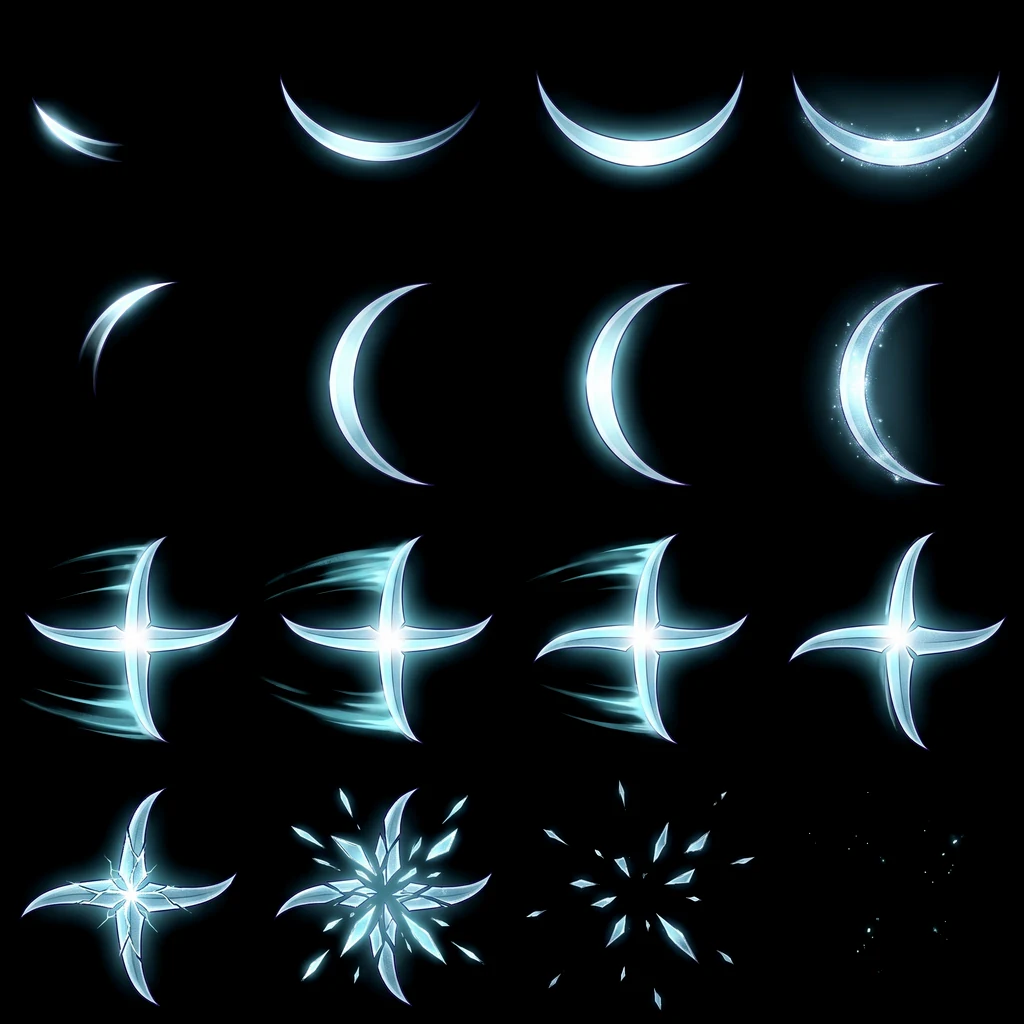
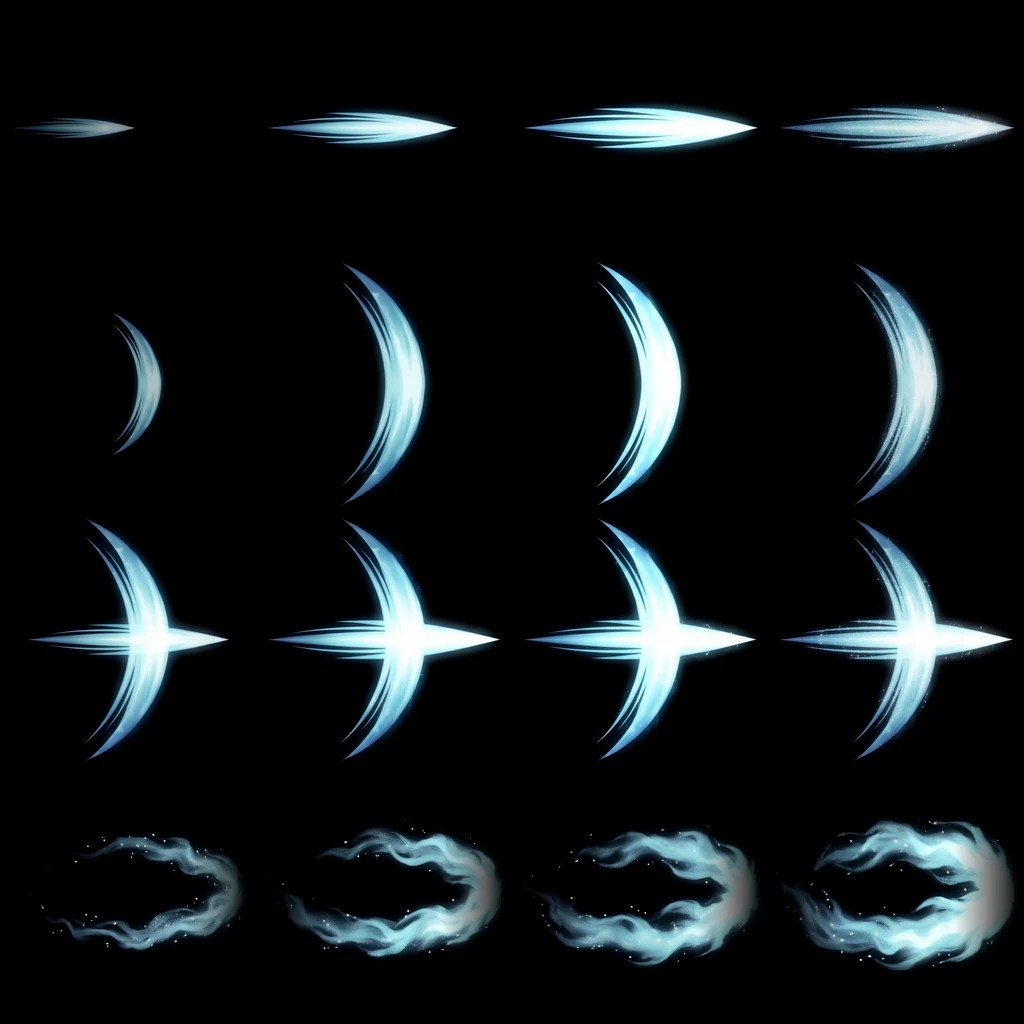
v0.8.173 寒川十字換層疊刀光特效＋獨立尾霧
Claude-Session: https://claude.ai/code/session_019t36Gr7PPAoBXKfZgSpNoY

diff --git a/index.html b/index.html
@@ -2102,14 +2102,14 @@
       "use strict";
 
       /* v0.7.8 圖片快取：assets/ 圖片網址一律加 ?v=版本，更新美術後不會讀到手機瀏覽器的舊快取（每次改圖就遞增 ASSET_VER） */
-      const ASSET_VER = "f7321d3a"; /* v0.8.135 由 tools/build.py 依 assets/ 內容雜湊自動填入：只有圖片／音檔真的變了網址才換（原本每發一版全部換網址，手機要重載約 10 MB）。不必再手動遞增 */
+      const ASSET_VER = "a1b3c0bd"; /* v0.8.135 由 tools/build.py 依 assets/ 內容雜湊自動填入：只有圖片／音檔真的變了網址才換（原本每發一版全部換網址，手機要重載約 10 MB）。不必再手動遞增 */
       /* v0.8.156 共用圖片載入器 IMGQ：所有 assets/ 圖片（不論哪裡 new Image）都經過這裡。
        * - 先用隱藏的代理圖下載，成功才把網址交給真正的圖（此時從快取秒載、觸發原本的 onload）；
        *   下載中的圖沒有 src，畫出來不會丟錯（失敗狀態的圖 drawImage 會丟錯）。
        * - 同時最多 IMGQ_MAX 個下載；單次 20 秒沒回應視為失敗；失敗重試 3 次（0.6／1.2／1.8 秒後，網址加 &r=）；
        *   整輪都失敗就 6 秒後再來一輪；兩輪都失敗才對原圖發 error 事件（圖保持「沒有 src」，畫了也安全）。
        * - 同一網址只下載一次。IMGQ.pending() 給進場閘門用（v0.8.156 進戰場前等圖載完）。 */
-      const ASSET_IMGS = new Set("bg/arena1,bg/arena1_fg,bg/arena1_ground,bg/arena1_sky,bg/arena2,bg/arena2_fg,bg/arena2_ground,bg/arena3,bg/arena3_fg,bg/arena3_ground,bg/arena4,bg/arena4_fg,bg/arena4_ground,bg/arena5,bg/arena5_fg,bg/arena5_ground,bg/camp,bg/hub_fire_base,bg/hub_gate,bg/hub_gate_front,bg/hub_shimei_1,bg/hub_shimei_2,bg/hub_shimei_3,bg/hub_shimei_4,bg/intro1,bg/intro2,bg/intro3,bg/intro5,boss1/01_idle1,boss1/02_idle2,boss1/03_walk1,boss1/04_walk2,boss1/05_walk3,boss1/06_walk4,boss1/07_windup,boss1/08_windup_thrust,boss1/09_slash,boss1/10_slash_rec,boss1/11_thrust,boss1/12_thrust_rec,boss1/13_sweep,boss1/14_cast,boss1/15_hurt,boss1/16_stagger,boss1/17_kneel,boss1/18_fall,boss1/19_lie,boss1/20_jump,boss1/21_fall,boss1/22_land,boss1/23_rise,boss1/24_chop_wind,boss1/25_chop_hit,boss1/26_chop_rec,boss1/27_thr_wind,boss1/28_thr_hit,boss1/29_thr_rec,boss1/30_swp_wind,boss1/31_swp_hit,boss1/32_swp_rec,boss1/33_leap_crouch,boss1/34_leap_air,boss1/35_leap_land,boss1/36_tq_wind,boss1/37_tq_hit,boss1/38_tq_rec,boss1/39_cb_wind,boss1/40_cb_h1,boss1/41_cb_h2,boss1/42_cb_rec,boss1/43_dl_hold,boss1/44_dl_hit,boss1/45_tw_wind,boss1/46_tw_rel,boss1/47_tw_catch,boss1/48_sp_wind,boss1/49_sp_hit,boss1/50_sp_rec,boss1/51_ch_wind,boss1/52_ch_run,boss1/53_ch_stop,boss1/54_sh_vanish,boss1/55_sh_strike,boss1/61_u_raise,boss1/62_u_pause,boss1/63_u_stab,boss1/64_u_hold,boss1/65_u_cross,boss1/66_u_roar,boss1/67_u_rest,boss1/68_u_pull,boss1/name,boss1/walk_01,boss1/walk_02,boss1/walk_03,boss1/walk_04,boss1/walk_05,boss1/walk_06,boss1/walk_07,boss1/walk_08,boss1/walk_09,boss1/walk_10,boss1/walk_11,boss1/walk_12,boss2/01_idle1,boss2/02_idle2,boss2/03_walk1,boss2/04_walk2,boss2/05_walk3,boss2/06_walk4,boss2/07_windup,boss2/08_windup_thrust,boss2/09_slash,boss2/10_slash_rec,boss2/11_thrust,boss2/12_thrust_rec,boss2/13_sweep,boss2/14_cast,boss2/15_hurt,boss2/16_stagger,boss2/17_kneel,boss2/18_fall,boss2/19_lie,boss2/20_fan_wind,boss2/21_fan_hit,boss2/22_fan_rec,boss2/23_thr_wind,boss2/24_thr_hit,boss2/25_thr_rec,boss2/26_swp_wind,boss2/27_swp_hit,boss2/28_swp_rec,boss2/29_cast_wind,boss2/30_cast_hit,boss2/31_cast_rec,boss2/32_tp_wind,boss2/33_tp_hit,boss2/34_tp_rec,boss2/35_fs_wind,boss2/36_fs_1,boss2/37_fs_2,boss2/38_fs_3,boss2/39_fs_rec,boss2/40_sky_cast,boss2/41_zone_wind,boss2/42_zone_hit,boss2/43_zone_rec,boss2/44_grab_tell,boss2/45_grab_hit,boss2/46_grab_rec,boss2/47_mir_wind,boss2/48_mir_spin,boss2/49_mir_rec,boss2/50_tc_back,boss2/51_tc_low,boss2/52_tc_rec,boss2/61_u_rise,boss2/62_u_summon,boss2/63_u_rain,boss2/64_u_gather,boss2/65_u_launch,boss2/66_u_struck,boss2/67_u_rest,boss2/68_u_recover,boss2/name,boss2/walk_01,boss2/walk_02,boss2/walk_03,boss2/walk_04,boss2/walk_05,boss2/walk_06,boss2/walk_07,boss2/walk_08,boss2/walk_09,boss2/walk_10,boss2/walk_11,boss2/walk_12,boss3/01_idle1,boss3/02_idle2,boss3/03_walk1,boss3/04_walk2,boss3/05_walk3,boss3/06_walk4,boss3/07_windup,boss3/08_windup_thrust,boss3/09_slash,boss3/10_slash_rec,boss3/11_thrust,boss3/12_thrust_rec,boss3/13_sweep,boss3/14_cast,boss3/15_hurt,boss3/16_stagger,boss3/17_kneel,boss3/18_fall,boss3/19_lie,boss3/20_hs_wind,boss3/21_hs_hit,boss3/22_hs_rec,boss3/23_x_wind,boss3/24_x_hold,boss3/25_x_hit,boss3/26_spin_wind,boss3/27_spin_hit,boss3/28_spin_rec,boss3/29_dash_wind,boss3/30_dash_hit,boss3/31_dash_rec,boss3/32_low_wind,boss3/33_low_hit,boss3/34_low_rec,boss3/35_draw_a,boss3/61_ua_guard,boss3/62_ua_sweep,boss3/63_ua_raise,boss3/64_ua_chop,boss3/65_ua_push,boss3/66_ua_pant,boss3/67_ua_recoil,boss3/68_ua_recover,boss3/name,boss3/walk_01,boss3/walk_02,boss3/walk_03,boss3/walk_04,boss3/walk_05,boss3/walk_06,boss3/walk_07,boss3/walk_08,boss3/walk_09,boss3/walk_10,boss3/walk_11,boss3/walk_12,boss3b/01_idle1,boss3b/02_idle2,boss3b/03_walk1,boss3b/04_walk2,boss3b/05_walk3,boss3b/06_walk4,boss3b/07_windup,boss3b/08_windup_thrust,boss3b/09_slash,boss3b/10_slash_rec,boss3b/11_thrust,boss3b/12_thrust_rec,boss3b/13_sweep,boss3b/14_cast,boss3b/15_hurt,boss3b/16_stagger,boss3b/17_kneel,boss3b/18_fall,boss3b/19_lie,boss3b/20_slam_wind,boss3b/21_slam_hit,boss3b/22_slam_rec,boss3b/23_plunge_jump,boss3b/24_plunge_hit,boss3b/25_plunge_rec,boss3b/26_charge_wind,boss3b/27_charge_hit,boss3b/28_charge_rec,boss3b/29_sweep_wind,boss3b/30_sweep_hit,boss3b/31_sweep_rec,boss3b/35_draw_a,boss3b/36_draw_b,boss3b/37_draw_c,boss3b/71_ub_hold,boss3b/72_ub_spinf,boss3b/73_ub_spinb,boss3b/74_ub_pause,boss3b/75_ub_throw,boss3b/76_ub_perch,boss3b/77_ub_strain,boss3b/78_ub_back,boss3b/obj_fly,boss3b/obj_lean,boss3b/obj_stuck,boss3b/walk_01,boss3b/walk_02,boss3b/walk_03,boss3b/walk_04,boss3b/walk_05,boss3b/walk_06,boss3b/walk_07,boss3b/walk_08,boss3b/walk_09,boss3b/walk_10,boss3b/walk_11,boss3b/walk_12,boss4/fs11,boss4/fs12,boss4/fs14,boss4/fs21,boss4/fs22,boss4/fs24,boss4/fs31,boss4/fs32,boss4/fs34,boss4/fs41,boss4/fs42,boss4/fs44,boss4/h01,boss4/h02,boss4/h03,boss4/h04,boss4/h05,boss4/h06,boss4/h07,boss4/h08,boss4/h09,boss4/h10,boss4/h11,boss4/h12,boss4/ls1,boss4/ls2,boss4/ls3,boss4/ls4,boss4/name,boss4/rs1,boss4/rs2,boss4/rs3,boss4/rs4,boss4/sw1,boss4/sw2,boss4/sw3,boss4s/01_idle1,boss4s/02_idle2,boss4s/03_walk1,boss4s/04_walk2,boss4s/05_walk3,boss4s/06_walk4,boss4s/07_windup,boss4s/08_windup_thrust,boss4s/09_slash,boss4s/10_slash_rec,boss4s/11_thrust,boss4s/12_thrust_rec,boss4s/13_sweep,boss4s/14_cast,boss4s/15_hurt,boss4s/16_stagger,boss4s/17_kneel,boss4s/18_fall,boss4s/19_lie,boss4s/20_spin_wind,boss4s/21_spin_hit,boss4s/22_sweep_wind,boss4s/23_fly_launch,boss4s/24_rain_wind,boss4s/25_spin_rec,boss4s/51_desc_a,boss4s/52_desc_b,boss4s/53_desc_c,boss4s/54_desc_d,boss5/01_idle1,boss5/02_idle2,boss5/03_walk1,boss5/04_walk2,boss5/05_walk3,boss5/06_walk4,boss5/07_windup,boss5/08_windup_thrust,boss5/09_slash,boss5/10_slash_rec,boss5/11_thrust,boss5/12_thrust_rec,boss5/13_sweep,boss5/14_cast,boss5/15_hurt,boss5/16_stagger,boss5/20_bite_crouch,boss5/21_bite_lunge,boss5/22_pounce_coil,boss5/23_pounce_fly,boss5/24_pounce_dive,boss5/25_pounce_land,boss5/26_rush,boss5/27_tail_wind,boss5/28_tail_spin,boss5/29_claw,boss5/40_sb_wind,boss5/41_sb_open,boss5/42_sb_snap,boss5/43_sb_rec,boss5/44_sc_rear,boss5/45_sc_a,boss5/46_sc_b,boss5/47_sc_rec,boss5/48_sp_coil,boss5/49_sp_rise,boss5/50_sp_dive,boss5/51_sp_land,boss5/52_sr_tell,boss5/53_sr_dart,boss5/54_sr_skid,boss5/55_ss_hit,boss5/56_st_wind,boss5/57_st_spin,boss5/58_st_rec,boss5/59_s_howl,boss5/name,boss5b/01_idle1,boss5b/02_idle2,boss5b/03_walk1,boss5b/04_walk2,boss5b/05_walk3,boss5b/06_walk4,boss5b/07_windup,boss5b/08_windup_thrust,boss5b/09_slash,boss5b/10_slash_rec,boss5b/11_thrust,boss5b/12_thrust_rec,boss5b/13_sweep,boss5b/14_cast,boss5b/15_hurt,boss5b/16_stagger,boss5b/17_kneel,boss5b/18_fall,boss5b/19_lie,boss5b/22_swipe_rear,boss5b/23_swipe_mid,boss5b/24_slam_up,boss5b/25_slam_mid,boss5b/26_leap_crouch,boss5b/27_leap_fly,boss5b/28_leap_dive,boss5b/29_bite_wind,boss5b/30_bite_snap,boss5b/31_rush,boss5b/32_tail_wind,boss5b/33_tail_spin,boss5b/40_bw_wind,boss5b/41_bw_mid,boss5b/42_bw_follow,boss5b/43_bw_rec,boss5b/44_bs_up,boss5b/45_bs_down,boss5b/46_bs_up2,boss5b/47_bs_rec,boss5b/48_bl_crouch,boss5b/49_bl_fly,boss5b/50_bl_dive,boss5b/51_bl_land,boss5b/52_bb_tell,boss5b/53_bb_snap,boss5b/54_bc_wind,boss5b/55_bc_run,boss5b/56_b_howl,boss5b/57_b_summon,boss5b/58_bt_wind,boss5b/59_bt_spin,boss5b/60_br_crouch,boss5b/61_br_coil,boss5b/62_br_fire,boss5b/63_br_rec,boss5b/64_br_deep,boss5b/65_br_g1,boss5b/66_br_g2,boss5b/67_br_coil2,boss5b/68_br_lunge,boss5b/69_br_fire2,boss5b/70_br_fire3,fx/air,fx/boss1,fx/boss1fx2,fx/boss1ult,fx/boss1ult2,fx/boss2,fx/boss2bind,fx/boss2fx,fx/boss2intro,fx/boss2sw,fx/boss2ult,fx/boss2ult2,fx/boss3bfx,fx/boss3bult,fx/boss3fx,fx/boss3intro,fx/boss3ult,fx/boss4fx,fx/boss4fx2,fx/boss4fx3,fx/boss4intro,fx/boss4warn,fx/boss5beam,fx/boss5charge,fx/boss5flame,fx/boss5intro,fx/boss5morph,fx/campfire,fx/cue,fx/dir1,fx/dir2,fx/dir3,fx/dir4,fx/exec,fx/exec2,fx/exec_t1,fx/exec_t2,fx/flame,fx/heal_fx,fx/ink,fx/land,fx/mark,fx/peril_aura,fx/scene,fx/slash,fx/spark,fx/ult,fx/wolf,fx/wolf2,fx/xtz,fx/xtz_shield,fx/xtz_star,mc/01_idle1,mc/02_idle2,mc/03_run1,mc/04_run2,mc/05_run3,mc/06_run4,mc/07_jump,mc/08_fall,mc/09_slash1,mc/10_slash2,mc/11_thrust,mc/12_charge,mc/13_parry,mc/14_dash,mc/15_drink,mc/16_hurt,mc/17_slide,mc/18_plant,mc/19_rise,mc/20_s1a,mc/21_s1b,mc/22_s1c,mc/23_s2a,mc/24_s2b,mc/25_s2c,mc/26_t_a,mc/27_t_b,mc/28_t_c,mc/29_parry_a,mc/30_parry_b,mc/31_parry_c,mc/32_jump_a,mc/33_dash_a,mc/34_dash_b,mc/35_dash_c,mc/36_hurt_a,mc/37_hurt_b,mc/38_hv_a,mc/39_hv_b,mc/40_hv_c,mc/41_point_a,mc/42_point_b,mc/43_point_c,mc/idle_01,mc/idle_02,mc/idle_03,mc/idle_04,mc/idle_05,mc/idle_06,mc/idle_07,mc/idle_08,mc/idle_09,mc/idle_10,mc/idle_11,mc/idle_12,mc/idle_13,mc/idle_14,mc/idle_15,mc/idle_16,mc/idle_17,mc/idle_18,mc/idle_19,mc/idle_20,mc/idle_21,mc/idle_22,mc/idle_23,mc/idle_24,mc/run_01,mc/run_02,mc/run_03,mc/run_04,mc/run_05,mc/run_06,mc/run_07,mc/run_08,mc/run_09,mc/run_10,portrait/boss1,portrait/boss1_alt,portrait/boss2,portrait/boss2_alt,portrait/boss3,portrait/boss3_alt,portrait/mochen,portrait/mochen_alt,portrait/shidi,portrait/shidi_alt,ui/clash_bar,ui/clash_medal".split(",")); /* v0.8.156 build.py 填入 assets 內全部 webp（"資料夾/檔名"） */
+      const ASSET_IMGS = new Set("bg/arena1,bg/arena1_fg,bg/arena1_ground,bg/arena1_sky,bg/arena2,bg/arena2_fg,bg/arena2_ground,bg/arena3,bg/arena3_fg,bg/arena3_ground,bg/arena4,bg/arena4_fg,bg/arena4_ground,bg/arena5,bg/arena5_fg,bg/arena5_ground,bg/camp,bg/hub_fire_base,bg/hub_gate,bg/hub_gate_front,bg/hub_shimei_1,bg/hub_shimei_2,bg/hub_shimei_3,bg/hub_shimei_4,bg/intro1,bg/intro2,bg/intro3,bg/intro5,boss1/01_idle1,boss1/02_idle2,boss1/03_walk1,boss1/04_walk2,boss1/05_walk3,boss1/06_walk4,boss1/07_windup,boss1/08_windup_thrust,boss1/09_slash,boss1/10_slash_rec,boss1/11_thrust,boss1/12_thrust_rec,boss1/13_sweep,boss1/14_cast,boss1/15_hurt,boss1/16_stagger,boss1/17_kneel,boss1/18_fall,boss1/19_lie,boss1/20_jump,boss1/21_fall,boss1/22_land,boss1/23_rise,boss1/24_chop_wind,boss1/25_chop_hit,boss1/26_chop_rec,boss1/27_thr_wind,boss1/28_thr_hit,boss1/29_thr_rec,boss1/30_swp_wind,boss1/31_swp_hit,boss1/32_swp_rec,boss1/33_leap_crouch,boss1/34_leap_air,boss1/35_leap_land,boss1/36_tq_wind,boss1/37_tq_hit,boss1/38_tq_rec,boss1/39_cb_wind,boss1/40_cb_h1,boss1/41_cb_h2,boss1/42_cb_rec,boss1/43_dl_hold,boss1/44_dl_hit,boss1/45_tw_wind,boss1/46_tw_rel,boss1/47_tw_catch,boss1/48_sp_wind,boss1/49_sp_hit,boss1/50_sp_rec,boss1/51_ch_wind,boss1/52_ch_run,boss1/53_ch_stop,boss1/54_sh_vanish,boss1/55_sh_strike,boss1/61_u_raise,boss1/62_u_pause,boss1/63_u_stab,boss1/64_u_hold,boss1/65_u_cross,boss1/66_u_roar,boss1/67_u_rest,boss1/68_u_pull,boss1/name,boss1/walk_01,boss1/walk_02,boss1/walk_03,boss1/walk_04,boss1/walk_05,boss1/walk_06,boss1/walk_07,boss1/walk_08,boss1/walk_09,boss1/walk_10,boss1/walk_11,boss1/walk_12,boss2/01_idle1,boss2/02_idle2,boss2/03_walk1,boss2/04_walk2,boss2/05_walk3,boss2/06_walk4,boss2/07_windup,boss2/08_windup_thrust,boss2/09_slash,boss2/10_slash_rec,boss2/11_thrust,boss2/12_thrust_rec,boss2/13_sweep,boss2/14_cast,boss2/15_hurt,boss2/16_stagger,boss2/17_kneel,boss2/18_fall,boss2/19_lie,boss2/20_fan_wind,boss2/21_fan_hit,boss2/22_fan_rec,boss2/23_thr_wind,boss2/24_thr_hit,boss2/25_thr_rec,boss2/26_swp_wind,boss2/27_swp_hit,boss2/28_swp_rec,boss2/29_cast_wind,boss2/30_cast_hit,boss2/31_cast_rec,boss2/32_tp_wind,boss2/33_tp_hit,boss2/34_tp_rec,boss2/35_fs_wind,boss2/36_fs_1,boss2/37_fs_2,boss2/38_fs_3,boss2/39_fs_rec,boss2/40_sky_cast,boss2/41_zone_wind,boss2/42_zone_hit,boss2/43_zone_rec,boss2/44_grab_tell,boss2/45_grab_hit,boss2/46_grab_rec,boss2/47_mir_wind,boss2/48_mir_spin,boss2/49_mir_rec,boss2/50_tc_back,boss2/51_tc_low,boss2/52_tc_rec,boss2/61_u_rise,boss2/62_u_summon,boss2/63_u_rain,boss2/64_u_gather,boss2/65_u_launch,boss2/66_u_struck,boss2/67_u_rest,boss2/68_u_recover,boss2/name,boss2/walk_01,boss2/walk_02,boss2/walk_03,boss2/walk_04,boss2/walk_05,boss2/walk_06,boss2/walk_07,boss2/walk_08,boss2/walk_09,boss2/walk_10,boss2/walk_11,boss2/walk_12,boss3/01_idle1,boss3/02_idle2,boss3/03_walk1,boss3/04_walk2,boss3/05_walk3,boss3/06_walk4,boss3/07_windup,boss3/08_windup_thrust,boss3/09_slash,boss3/10_slash_rec,boss3/11_thrust,boss3/12_thrust_rec,boss3/13_sweep,boss3/14_cast,boss3/15_hurt,boss3/16_stagger,boss3/17_kneel,boss3/18_fall,boss3/19_lie,boss3/20_hs_wind,boss3/21_hs_hit,boss3/22_hs_rec,boss3/23_x_wind,boss3/24_x_hold,boss3/25_x_hit,boss3/26_spin_wind,boss3/27_spin_hit,boss3/28_spin_rec,boss3/29_dash_wind,boss3/30_dash_hit,boss3/31_dash_rec,boss3/32_low_wind,boss3/33_low_hit,boss3/34_low_rec,boss3/35_draw_a,boss3/61_ua_guard,boss3/62_ua_sweep,boss3/63_ua_raise,boss3/64_ua_chop,boss3/65_ua_push,boss3/66_ua_pant,boss3/67_ua_recoil,boss3/68_ua_recover,boss3/name,boss3/walk_01,boss3/walk_02,boss3/walk_03,boss3/walk_04,boss3/walk_05,boss3/walk_06,boss3/walk_07,boss3/walk_08,boss3/walk_09,boss3/walk_10,boss3/walk_11,boss3/walk_12,boss3b/01_idle1,boss3b/02_idle2,boss3b/03_walk1,boss3b/04_walk2,boss3b/05_walk3,boss3b/06_walk4,boss3b/07_windup,boss3b/08_windup_thrust,boss3b/09_slash,boss3b/10_slash_rec,boss3b/11_thrust,boss3b/12_thrust_rec,boss3b/13_sweep,boss3b/14_cast,boss3b/15_hurt,boss3b/16_stagger,boss3b/17_kneel,boss3b/18_fall,boss3b/19_lie,boss3b/20_slam_wind,boss3b/21_slam_hit,boss3b/22_slam_rec,boss3b/23_plunge_jump,boss3b/24_plunge_hit,boss3b/25_plunge_rec,boss3b/26_charge_wind,boss3b/27_charge_hit,boss3b/28_charge_rec,boss3b/29_sweep_wind,boss3b/30_sweep_hit,boss3b/31_sweep_rec,boss3b/35_draw_a,boss3b/36_draw_b,boss3b/37_draw_c,boss3b/71_ub_hold,boss3b/72_ub_spinf,boss3b/73_ub_spinb,boss3b/74_ub_pause,boss3b/75_ub_throw,boss3b/76_ub_perch,boss3b/77_ub_strain,boss3b/78_ub_back,boss3b/obj_fly,boss3b/obj_lean,boss3b/obj_stuck,boss3b/walk_01,boss3b/walk_02,boss3b/walk_03,boss3b/walk_04,boss3b/walk_05,boss3b/walk_06,boss3b/walk_07,boss3b/walk_08,boss3b/walk_09,boss3b/walk_10,boss3b/walk_11,boss3b/walk_12,boss4/fs11,boss4/fs12,boss4/fs14,boss4/fs21,boss4/fs22,boss4/fs24,boss4/fs31,boss4/fs32,boss4/fs34,boss4/fs41,boss4/fs42,boss4/fs44,boss4/h01,boss4/h02,boss4/h03,boss4/h04,boss4/h05,boss4/h06,boss4/h07,boss4/h08,boss4/h09,boss4/h10,boss4/h11,boss4/h12,boss4/ls1,boss4/ls2,boss4/ls3,boss4/ls4,boss4/name,boss4/rs1,boss4/rs2,boss4/rs3,boss4/rs4,boss4/sw1,boss4/sw2,boss4/sw3,boss4s/01_idle1,boss4s/02_idle2,boss4s/03_walk1,boss4s/04_walk2,boss4s/05_walk3,boss4s/06_walk4,boss4s/07_windup,boss4s/08_windup_thrust,boss4s/09_slash,boss4s/10_slash_rec,boss4s/11_thrust,boss4s/12_thrust_rec,boss4s/13_sweep,boss4s/14_cast,boss4s/15_hurt,boss4s/16_stagger,boss4s/17_kneel,boss4s/18_fall,boss4s/19_lie,boss4s/20_spin_wind,boss4s/21_spin_hit,boss4s/22_sweep_wind,boss4s/23_fly_launch,boss4s/24_rain_wind,boss4s/25_spin_rec,boss4s/51_desc_a,boss4s/52_desc_b,boss4s/53_desc_c,boss4s/54_desc_d,boss5/01_idle1,boss5/02_idle2,boss5/03_walk1,boss5/04_walk2,boss5/05_walk3,boss5/06_walk4,boss5/07_windup,boss5/08_windup_thrust,boss5/09_slash,boss5/10_slash_rec,boss5/11_thrust,boss5/12_thrust_rec,boss5/13_sweep,boss5/14_cast,boss5/15_hurt,boss5/16_stagger,boss5/20_bite_crouch,boss5/21_bite_lunge,boss5/22_pounce_coil,boss5/23_pounce_fly,boss5/24_pounce_dive,boss5/25_pounce_land,boss5/26_rush,boss5/27_tail_wind,boss5/28_tail_spin,boss5/29_claw,boss5/40_sb_wind,boss5/41_sb_open,boss5/42_sb_snap,boss5/43_sb_rec,boss5/44_sc_rear,boss5/45_sc_a,boss5/46_sc_b,boss5/47_sc_rec,boss5/48_sp_coil,boss5/49_sp_rise,boss5/50_sp_dive,boss5/51_sp_land,boss5/52_sr_tell,boss5/53_sr_dart,boss5/54_sr_skid,boss5/55_ss_hit,boss5/56_st_wind,boss5/57_st_spin,boss5/58_st_rec,boss5/59_s_howl,boss5/name,boss5b/01_idle1,boss5b/02_idle2,boss5b/03_walk1,boss5b/04_walk2,boss5b/05_walk3,boss5b/06_walk4,boss5b/07_windup,boss5b/08_windup_thrust,boss5b/09_slash,boss5b/10_slash_rec,boss5b/11_thrust,boss5b/12_thrust_rec,boss5b/13_sweep,boss5b/14_cast,boss5b/15_hurt,boss5b/16_stagger,boss5b/17_kneel,boss5b/18_fall,boss5b/19_lie,boss5b/22_swipe_rear,boss5b/23_swipe_mid,boss5b/24_slam_up,boss5b/25_slam_mid,boss5b/26_leap_crouch,boss5b/27_leap_fly,boss5b/28_leap_dive,boss5b/29_bite_wind,boss5b/30_bite_snap,boss5b/31_rush,boss5b/32_tail_wind,boss5b/33_tail_spin,boss5b/40_bw_wind,boss5b/41_bw_mid,boss5b/42_bw_follow,boss5b/43_bw_rec,boss5b/44_bs_up,boss5b/45_bs_down,boss5b/46_bs_up2,boss5b/47_bs_rec,boss5b/48_bl_crouch,boss5b/49_bl_fly,boss5b/50_bl_dive,boss5b/51_bl_land,boss5b/52_bb_tell,boss5b/53_bb_snap,boss5b/54_bc_wind,boss5b/55_bc_run,boss5b/56_b_howl,boss5b/57_b_summon,boss5b/58_bt_wind,boss5b/59_bt_spin,boss5b/60_br_crouch,boss5b/61_br_coil,boss5b/62_br_fire,boss5b/63_br_rec,boss5b/64_br_deep,boss5b/65_br_g1,boss5b/66_br_g2,boss5b/67_br_coil2,boss5b/68_br_lunge,boss5b/69_br_fire2,boss5b/70_br_fire3,fx/air,fx/boss1,fx/boss1fx2,fx/boss1ult,fx/boss1ult2,fx/boss2,fx/boss2bind,fx/boss2fx,fx/boss2intro,fx/boss2sw,fx/boss2ult,fx/boss2ult2,fx/boss3bfx,fx/boss3bult,fx/boss3crack,fx/boss3fx,fx/boss3intro,fx/boss3ult,fx/boss4fx,fx/boss4fx2,fx/boss4fx3,fx/boss4intro,fx/boss4warn,fx/boss5beam,fx/boss5charge,fx/boss5flame,fx/boss5intro,fx/boss5morph,fx/campfire,fx/cue,fx/dir1,fx/dir2,fx/dir3,fx/dir4,fx/exec,fx/exec2,fx/exec_t1,fx/exec_t2,fx/flame,fx/heal_fx,fx/ink,fx/land,fx/mark,fx/peril_aura,fx/scene,fx/slash,fx/spark,fx/ult,fx/wolf,fx/wolf2,fx/xtz,fx/xtz_shield,fx/xtz_star,mc/01_idle1,mc/02_idle2,mc/03_run1,mc/04_run2,mc/05_run3,mc/06_run4,mc/07_jump,mc/08_fall,mc/09_slash1,mc/10_slash2,mc/11_thrust,mc/12_charge,mc/13_parry,mc/14_dash,mc/15_drink,mc/16_hurt,mc/17_slide,mc/18_plant,mc/19_rise,mc/20_s1a,mc/21_s1b,mc/22_s1c,mc/23_s2a,mc/24_s2b,mc/25_s2c,mc/26_t_a,mc/27_t_b,mc/28_t_c,mc/29_parry_a,mc/30_parry_b,mc/31_parry_c,mc/32_jump_a,mc/33_dash_a,mc/34_dash_b,mc/35_dash_c,mc/36_hurt_a,mc/37_hurt_b,mc/38_hv_a,mc/39_hv_b,mc/40_hv_c,mc/41_point_a,mc/42_point_b,mc/43_point_c,mc/idle_01,mc/idle_02,mc/idle_03,mc/idle_04,mc/idle_05,mc/idle_06,mc/idle_07,mc/idle_08,mc/idle_09,mc/idle_10,mc/idle_11,mc/idle_12,mc/idle_13,mc/idle_14,mc/idle_15,mc/idle_16,mc/idle_17,mc/idle_18,mc/idle_19,mc/idle_20,mc/idle_21,mc/idle_22,mc/idle_23,mc/idle_24,mc/run_01,mc/run_02,mc/run_03,mc/run_04,mc/run_05,mc/run_06,mc/run_07,mc/run_08,mc/run_09,mc/run_10,portrait/boss1,portrait/boss1_alt,portrait/boss2,portrait/boss2_alt,portrait/boss3,portrait/boss3_alt,portrait/mochen,portrait/mochen_alt,portrait/shidi,portrait/shidi_alt,ui/clash_bar,ui/clash_medal".split(",")); /* v0.8.156 build.py 填入 assets 內全部 webp（"資料夾/檔名"） */
       const ASSET_DIRS = new Set([...ASSET_IMGS].map(s => s.split("/")[0]));
       const IMGQ_MAX = 12;
       const IMGQ = { q: [], active: 0, urls: {}, done: 0, total: 0, failed: 0, missing: [],
@@ -3094,7 +3094,7 @@
         S3.stances.A.pool.push(["u_cross", 4]); S3.stances.B.poolP2.push(["u_tornado", 5]);
         S3.hpTriggers = [{ move: "u_cross", at: 0.5, phase: 1, stance: "A" }, { move: "u_tornado", at: 0.5, phase: 2, stance: "B" }];
         S3.sigMoves = [{ move: "u_cross", phase: 1, stance: "A" }, { move: "u_tornado", phase: 2, stance: "B" }];
-        S3.fxSheets = ["boss3fx", "boss3bfx"]; S3.arcArt = "boss3fx"; S3.fxSheets.push("boss3ult", "boss3bult", "cue", "land"); /* v0.8.171 大招 */
+        S3.fxSheets = ["boss3fx", "boss3bfx"]; S3.arcArt = "boss3fx"; S3.fxSheets.push("boss3ult", "boss3crack", "boss3bult", "cue", "land"); /* v0.8.171 大招 */
         S3.swordRainArt = "boss3fx"; /* 劍雨用 boss3fx 列 3（無圖時退回程式畫） */
         S3.zoneArt = { fire: ["boss3bfx", 2] }; /* 戒律鎮壓地面區域用陣紋循環 */
         S3.layers = [
@@ -8753,7 +8753,7 @@ const Config = {
             if ((holding || slashing) && rel > -40 && rel < c.reach) { /* 蓄力斬劈碎十字；v0.8.171 寬容：按住蓄力 ≥0.2 秒時十字飛進範圍＝自動放出蓄力斬劈碎 */
               if (holding && !slashing) { Player.isChargingAttack = false; Player.facing = -o.dir; doChargedAttack(); }
               o.done = true; L.splice(i, 1);
-              if (fxReady("boss3ult")) spawnFx("boss3ult", 3, o.x, Player.y - 140, { w: 760, h: 760, dur: 0.55 });
+              if (fxReady("boss3crack")) spawnFx("boss3crack", 3, o.x, Player.y - 140, { w: 760, h: 760, dur: 0.55 }); /* v0.8.173 碎裂沿用舊圖第 4 列 */
               Sound.play("b2_shatter", 1.0, 1.0); Sound.play("parry", 0.9, 0.9); triggerHitstopMs(110); triggerShake(o.dir, 0.5, 26, 0.3); hapticBuzz([40, 20, 60]);
               Game.slowT = 0.3; Game.slowScale = 0.35;
               damageBossPosture(c.post, "【劈碎十字】架勢 +" + c.post + "%");
@@ -8791,8 +8791,10 @@ const Config = {
         const vt = ultViewTop(), Hv = Math.min(980, (G - vt) + 40);
         for (const o of L) {
           if (o.kind === "cross" && fxReady("boss3ult")) {
-            const img = fxSheet("boss3ult").img, col = Math.floor(now / 70) % 4, w = 640, h = Hv * 1.05, cy = G + 20 - Hv / 2;
-            ctx.save(); ctx.globalCompositeOperation = "lighter"; ctx.translate(o.x, cy); ctx.scale(o.dir, 1); ctx.drawImage(img, col * 256, 512, 256, 256, -w / 2, -h / 2, w, h); ctx.restore();
+            const img = fxSheet("boss3ult").img, col = Math.floor(now / 70) % 4, h = Hv * 1.05, w = h * 0.85, cy = G + 20 - Hv / 2;
+            ctx.save(); ctx.globalCompositeOperation = "lighter"; ctx.translate(o.x, cy); ctx.scale(o.dir, 1);
+            const tw = 1100, th = h * 0.42; ctx.globalAlpha = 0.75; ctx.drawImage(img, ((col + 1) % 4) * 256, 768, 256, 256, -w * 0.05 - tw * 0.95, -th / 2, tw, th); /* v0.8.173 尾霧（第 4 列）：亮的那頭接在十字內凹面後方 */
+            ctx.globalAlpha = 1; ctx.drawImage(img, col * 256, 512, 256, 256, -w / 2, -h / 2, w, h); ctx.restore();
           } else if (o.kind === "wave" && fxReady("boss3bult")) {
             const img = fxSheet("boss3bult").img, col = Math.floor(now / 70) % 4, h = (G - vt) + 160, w = 560;
             ctx.save(); ctx.globalCompositeOperation = "lighter"; ctx.translate(o.x, groundFxY("boss3bult", 3, h)); ctx.scale(o.dir, 1); ctx.drawImage(img, col * 256, 768, 256, 256, -w * 0.9, -h, w, h); ctx.restore();

diff --git a/src/55_ult.js b/src/55_ult.js
@@ -656,7 +656,7 @@
             if ((holding || slashing) && rel > -40 && rel < c.reach) { /* 蓄力斬劈碎十字；v0.8.171 寬容：按住蓄力 ≥0.2 秒時十字飛進範圍＝自動放出蓄力斬劈碎 */
               if (holding && !slashing) { Player.isChargingAttack = false; Player.facing = -o.dir; doChargedAttack(); }
               o.done = true; L.splice(i, 1);
-              if (fxReady("boss3ult")) spawnFx("boss3ult", 3, o.x, Player.y - 140, { w: 760, h: 760, dur: 0.55 });
+              if (fxReady("boss3crack")) spawnFx("boss3crack", 3, o.x, Player.y - 140, { w: 760, h: 760, dur: 0.55 }); /* v0.8.173 碎裂沿用舊圖第 4 列 */
               Sound.play("b2_shatter", 1.0, 1.0); Sound.play("parry", 0.9, 0.9); triggerHitstopMs(110); triggerShake(o.dir, 0.5, 26, 0.3); hapticBuzz([40, 20, 60]);
               Game.slowT = 0.3; Game.slowScale = 0.35;
               damageBossPosture(c.post, "【劈碎十字】架勢 +" + c.post + "%");
@@ -694,8 +694,10 @@
         const vt = ultViewTop(), Hv = Math.min(980, (G - vt) + 40);
         for (const o of L) {
           if (o.kind === "cross" && fxReady("boss3ult")) {
-            const img = fxSheet("boss3ult").img, col = Math.floor(now / 70) % 4, w = 640, h = Hv * 1.05, cy = G + 20 - Hv / 2;
-            ctx.save(); ctx.globalCompositeOperation = "lighter"; ctx.translate(o.x, cy); ctx.scale(o.dir, 1); ctx.drawImage(img, col * 256, 512, 256, 256, -w / 2, -h / 2, w, h); ctx.restore();
+            const img = fxSheet("boss3ult").img, col = Math.floor(now / 70) % 4, h = Hv * 1.05, w = h * 0.85, cy = G + 20 - Hv / 2;
+            ctx.save(); ctx.globalCompositeOperation = "lighter"; ctx.translate(o.x, cy); ctx.scale(o.dir, 1);
+            const tw = 1100, th = h * 0.42; ctx.globalAlpha = 0.75; ctx.drawImage(img, ((col + 1) % 4) * 256, 768, 256, 256, -w * 0.05 - tw * 0.95, -th / 2, tw, th); /* v0.8.173 尾霧（第 4 列）：亮的那頭接在十字內凹面後方 */
+            ctx.globalAlpha = 1; ctx.drawImage(img, col * 256, 512, 256, 256, -w / 2, -h / 2, w, h); ctx.restore();
           } else if (o.kind === "wave" && fxReady("boss3bult")) {
             const img = fxSheet("boss3bult").img, col = Math.floor(now / 70) % 4, h = (G - vt) + 160, w = 560;
             ctx.save(); ctx.globalCompositeOperation = "lighter"; ctx.translate(o.x, groundFxY("boss3bult", 3, h)); ctx.scale(o.dir, 1); ctx.drawImage(img, col * 256, 768, 256, 256, -w * 0.9, -h, w, h); ctx.restore();

diff --git a/src/21_stages.js b/src/21_stages.js
@@ -168,7 +168,7 @@
         S3.stances.A.pool.push(["u_cross", 4]); S3.stances.B.poolP2.push(["u_tornado", 5]);
         S3.hpTriggers = [{ move: "u_cross", at: 0.5, phase: 1, stance: "A" }, { move: "u_tornado", at: 0.5, phase: 2, stance: "B" }];
         S3.sigMoves = [{ move: "u_cross", phase: 1, stance: "A" }, { move: "u_tornado", phase: 2, stance: "B" }];
-        S3.fxSheets = ["boss3fx", "boss3bfx"]; S3.arcArt = "boss3fx"; S3.fxSheets.push("boss3ult", "boss3bult", "cue", "land"); /* v0.8.171 大招 */
+        S3.fxSheets = ["boss3fx", "boss3bfx"]; S3.arcArt = "boss3fx"; S3.fxSheets.push("boss3ult", "boss3crack", "boss3bult", "cue", "land"); /* v0.8.171 大招 */
         S3.swordRainArt = "boss3fx"; /* 劍雨用 boss3fx 列 3（無圖時退回程式畫） */
         S3.zoneArt = { fire: ["boss3bfx", 2] }; /* 戒律鎮壓地面區域用陣紋循環 */
         S3.layers = [

diff --git a/HANDOFF.md b/HANDOFF.md
@@ -1,11 +1,11 @@
-# 《一念飛仙外傳-墨塵傳》交接文件（對應版本 v0.8.172（M2 進行中；M0 分檔＋M1 聲音第一批））
+# 《一念飛仙外傳-墨塵傳》交接文件（對應版本 v0.8.173（M2 進行中；M0 分檔＋M1 聲音第一批））
 
 > 新對話開始時：掛載 `mashin-84/mochen`（push 權限）並 clone → 讀 `CLAUDE.md` → 讀本檔**第〇節**（現況總覽）→ 依待辦繼續。做新關卡再讀 `STAGE_PIPELINE.md`。
 > 第一節之後是歷史紀錄（舊版本的細節、設計決定的來由）；**版本紀錄最新的在第二十二節中段（v0.8.1xx 由新到舊排列）**，有疑問以程式碼與第〇節為準。
 
 ---
 
-## 〇、現況總覽（2026-11-10，v0.8.172；新對話先讀這節）
+## 〇、現況總覽（2026-11-10，v0.8.173；新對話先讀這節）
 
 ### 目前進度
 - **里程碑**：M0 地基 ✅、M1 聲音（通用音效已換生成檔）✅、M2 第 1 關金標準 ✅、M3 第 4 關 ✅；目前在做**第 5 關 九幽魔狼**（照 `STAGE_PIPELINE.md` 單關流程）。後續順序：第 6 關 → 7 → 8 → 9 → M8 劇情重寫 → M9 Beta。
@@ -722,6 +722,8 @@
 **v0.8.149 魔焰獸玉噴久一點（使用者：硬抗沒扣多少血、不夠久不夠震撼，多噴約 2 秒）**：`active` 1.1→4.2（實際＝4.2×0.82 二階段×0.78 volume≈2.7 秒，原本 0.7 秒）、`zoneDuration` 2.65 對齊噴射時間、`zoneDamagePerSec` 420→260（持續越久傷害越高，總量控制在滿血 1000 約扣 700）、噴射關鍵格交替 6→12 格（維持抖動節奏）。測試：站著硬吃 1000→298。注意：`Stages[n].volume` 會再壓縮招式時間，算實際秒數要乘 `volSpeedMod`。
 
 **v0.8.150 魔焰獸玉改「血量剩一半必放一次」**（使用者：打贏了都沒放過）：新機制 `Stages[n].hpTriggers=[{move, at:血量比例, phase:最低階段, stance:姿態}]`，`updateBossAI` 在閒置／接近時檢查，達標且該場還沒放過就立刻放（`Boss._hpt[move]`，`loadStage` 重置，重打會再放一次）；之後恢復一般招式池（`b_breath` 仍在池中）。第 5 關：`{move:"b_breath", at:0.5, phase:2, stance:"B"}`。測試：二階段把血量壓到 49%，當前招式結束後下一招即為魔焰獸玉。
+
+**v0.8.173 寒川十字換新特效（使用者：要參考動圖那種層疊刀光＋尾霧風格；v2 月牙方向反了不用，改十字與尾霧分開畫）**：`assets/fx/boss3ult.webp` 換 v3（`prompts3/7_boss3A_ult_fx_v3.txt`：列 0 水平細長刀芒、列 1 直立 `)` 形層疊月牙、列 2 十字＝直月牙＋水平刀芒、列 3 獨立尾霧；尾霧 `fx_black` 用 70px 淡出）。舊圖另存 `boss3crack.webp`，只用第 4 列（十字碎裂，蓄力斬劈碎時播）。`drawUltB3` 十字改等比（寬＝高×0.85），先畫尾霧（列 3，寬 1100、高＝十字高×0.42、透明度 0.75，亮的那頭接在十字內凹面後方），再畫十字。Gemini 第 4 列畫成橢圓環而非直尾，拉長後當尾霧可接受；不滿意可只重生第 4 列。
 
 **v0.8.172 招牌大招冷卻 20→15 秒（使用者）**：`55_ult.js` `ultEnd` 設 `Boss._sigNext = now + 15000`；全關共用（`pickFromPool` 排除 `ult` 招）。
 
